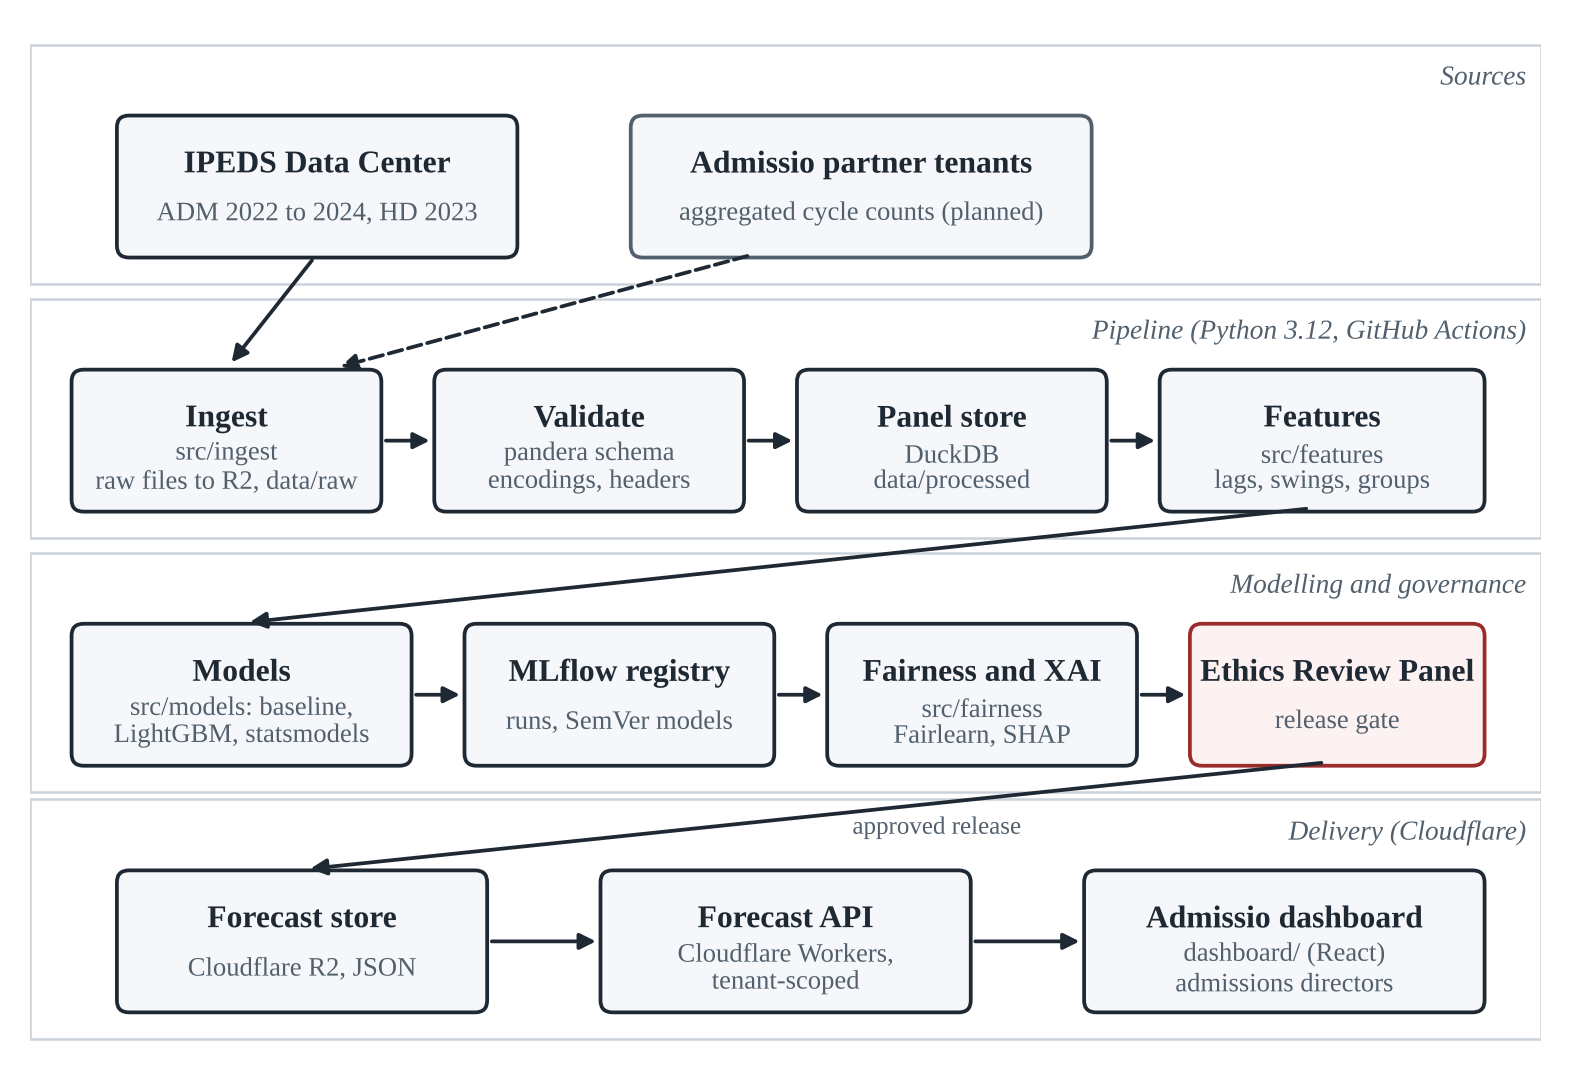
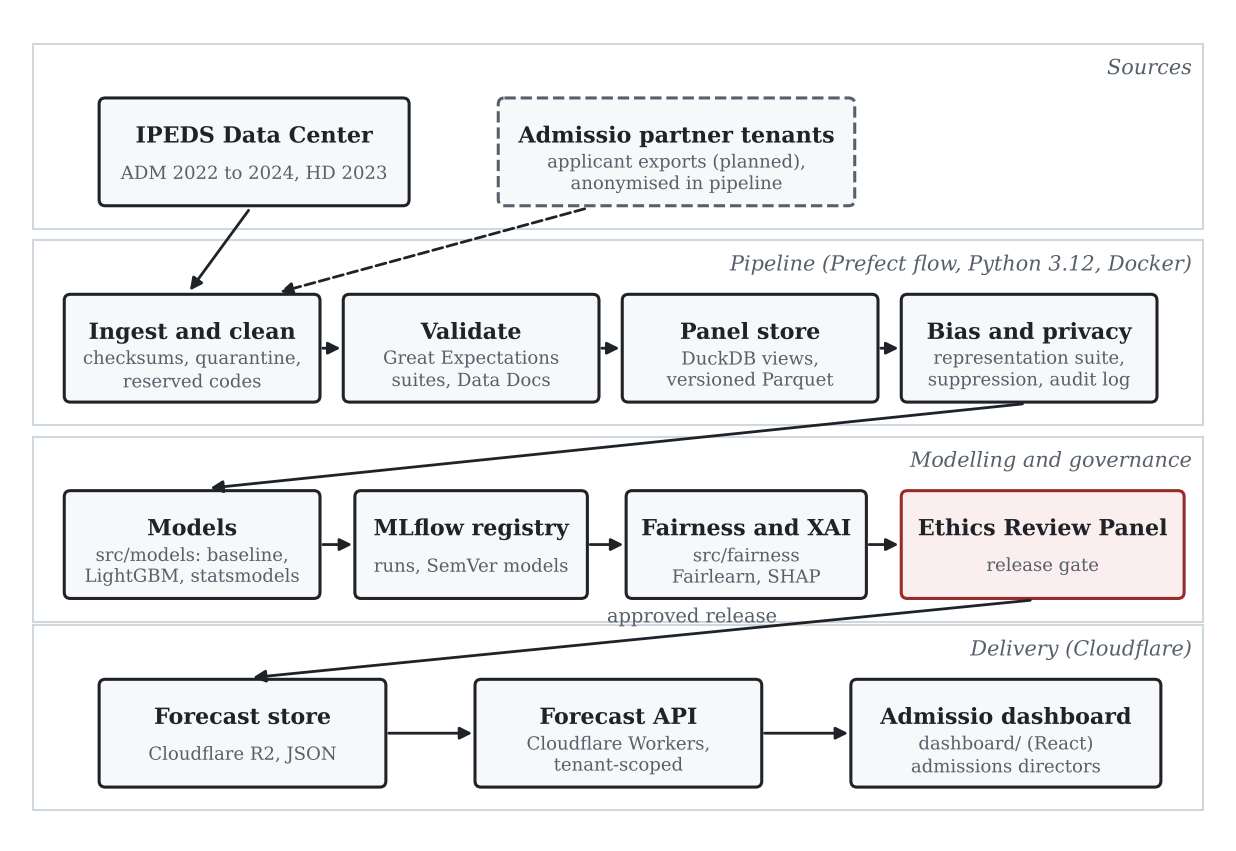
docs: add governance and anonymisation docs

Changed region(s): [[0.0, 0.0917, 0.9838, 0.9777], [0.0307, 0.0306, 0.9838, 0.0917]]

diff --git a/README.md b/README.md
@@ -7,12 +7,22 @@ Built on public IPEDS admissions data (2022 to 2024) while partner data accumula
 ## Repository layout
 
 ```
-admissio-yield-forecaster/
-├── data/          # raw and processed IPEDS files, tagged by release year
-├── docs/          # data card, model card, data dictionary, architecture, RAID log
-├── src/           # ingest/, features/, models/, fairness/
+msc-admissio-yield-forecaster/
+├── data/          # raw IPEDS files; interim and processed outputs are written at run time
+├── docs/          # data card, model card, data dictionary, governance, anonymisation plan, architecture, RAID log
+├── src/
+│   ├── ingest/      # landing with checksums, IPEDS readers
+│   ├── cleaning/    # deduplication, quarantine, reserved-code handling
+│   ├── features/    # yield panel and fairness groups
+│   ├── validation/  # Great Expectations suites and checkpoint runner
+│   ├── fairness/    # representation bias suite and group error audit
+│   ├── privacy/     # small-cell suppression, anonymisation, audit log
+│   ├── governance/  # access policy and retention rules
+│   ├── pipeline/    # Prefect flow, DuckDB warehouse, lineage
+│   └── models/      # forecasting models
 ├── dashboard/     # React front end served by Cloudflare Workers
-├── tests/         # unit and data validation tests
+├── tests/         # pytest suite for every pipeline module
+├── Dockerfile
 ├── CHANGELOG.md
 └── README.md
 ```
@@ -28,6 +38,37 @@ pip install -r requirements.txt
 pytest -q
 ```
 
+## Run the pipeline
+
+```bash
+python -m src.pipeline.flow
+```
+
+The Prefect flow lands the raw files, validates them with Great Expectations, cleans and integrates the panel, checks representation bias, suppresses small cells, anonymises the partner extract, loads DuckDB and applies retention. Outputs:
+
+| Output | Location |
+|---|---|
+| Warehouse with `analytics.yield_panel` and the `analytics.model_ready_panel` view | `data/processed/warehouse.duckdb` |
+| Versioned Parquet copies of every published table | `data/processed/<dataset>/` |
+| Great Expectations Data Docs | `reports/gx/uncommitted/data_docs/local_site/index.html` |
+| Lineage graph and run summary | `reports/lineage.json`, `reports/run_summary.json` |
+| Privacy audit log | `logs/audit/audit-<date>.jsonl` |
+
+Set `ADMISSIO_PSEUDONYM_KEY` to keep tenant pseudonyms stable between runs. To see the flow graph, start `prefect server start` and run the flow with `PREFECT_API_URL=http://127.0.0.1:4200/api`.
+
+## Run in Docker
+
+```bash
+docker build --tag admissio-pipeline .
+docker run --rm \
+  -v "$PWD/output/processed:/app/data/processed" \
+  -v "$PWD/output/reports:/app/reports" \
+  -v "$PWD/output/logs:/app/logs" \
+  admissio-pipeline
+```
+
+Run the tests inside the image with `docker run --rm admissio-pipeline python -m pytest -q`.
+
 ## Reproduce the baseline
 
 ```bash
@@ -41,7 +82,7 @@ This evaluates the carry-last-year's-yield-forward baseline on the 2024 cycle an
 | Sprint | Course module | Deliverable |
 |---|---|---|
 | 1 | Module 2 | Project plan, architecture, repository, data dictionary, RAID log |
-| 2 | Module 3 | Validated institution-year panel in DuckDB, data card |
+| 2 | Module 3 | Prefect pipeline, Great Expectations suites, bias detection, anonymisation, governance, audit log, Docker image |
 | 3 | Module 4 | Demand and yield models, offer planner, SHAP and fairness audit, model card |
 | 4 | Module 5 | Forecast API on Cloudflare Workers, React dashboard, stakeholder presentation |
 | 5 | Final Project | Deployed, monitored release |

diff --git a/docs/governance.md b/docs/governance.md
@@ -1,0 +1,43 @@
+# Data governance framework
+
+The framework covers who may touch each dataset, for what purpose, and for how long it is kept. The machine-readable policy is `src/governance/policy.yaml`. Every read, write, anonymisation and deletion in the pipeline is checked against that policy before it happens and recorded in the privacy audit log.
+
+## Roles
+
+| Role | Holder | Responsibility |
+|---|---|---|
+| `pipeline_service` | Automated service account | Runs the scheduled pipeline with the narrowest rights each step needs |
+| `data_engineer` | Pipeline maintainer | Maintains code, schemas and validation suites; cannot write analytical outputs by hand |
+| `analyst` | Model developer | Reads the validated panel and public outputs; never sees partner applicant records |
+| `ethics_review_panel` | Reviewers named in the Ethical AI Charter | Reads every internal output and the audit log; approves releases |
+| `partner_admin` | Admissions staff at one partner | Exports its own tenant's records and reads public outputs |
+
+## Dataset classification and access
+
+| Dataset | Classification | pipeline_service | data_engineer | analyst | ethics_review_panel | partner_admin |
+|---|---|---|---|---|---|---|
+| `ipeds_raw` | Public | read | read, write | read | read | none |
+| `quarantine` | Internal | write, delete | read | none | read | none |
+| `yield_panel` | Internal | read, write, delete | read | read | read | none |
+| `public_funnel` | Public | write, delete | read | read | read | read |
+| `representation_report` | Internal | write, delete | read | read | read | none |
+| `partner_extract` | Confidential | read, anonymise, delete | none | none | none | write |
+| `partner_aggregates` | Internal | write, delete | read | read | read | none |
+| `audit_log` | Restricted | append, delete | read | none | read | none |
+
+A request outside this matrix raises `AccessDenied` and is still written to the audit log with the outcome `denied`.
+
+## Retention
+
+| Dataset | Rule | Reason |
+|---|---|---|
+| `ipeds_raw` | Keep indefinitely | Public source files; needed to reproduce any past run |
+| `partner_extract` | Delete at the end of every run | Applicant-level personal data is needed only long enough to aggregate it |
+| `yield_panel`, `quarantine`, `public_funnel`, `partner_aggregates`, `representation_report` | Keep the latest two versions | One current release and one for rollback |
+| `audit_log` | Delete after 1,095 days (three years) | Long enough to answer a partner or regulator query about any training cycle |
+
+Retention runs as the last task of every pipeline run, and each deletion is itself logged.
+
+## Change control
+
+Changes to `policy.yaml` go through a pull request reviewed by the data engineer and approved by the Ethics Review Panel. Continuous integration runs the governance tests, so a change that grants analysts access to partner extracts fails the build.

diff --git a/docs/anonymization_plan.md b/docs/anonymization_plan.md
@@ -1,0 +1,25 @@
+# Data anonymisation plan
+
+## What counts as personal data here
+
+IPEDS files contain institution-level counts and no direct identifiers. Two risks remain. Small gender cells, such as one applicant of another gender at a small college, can point to a real person when combined with other published facts. Partner data from Admissio tenants is applicant-level and contains names, contact details, national identification numbers and dates of birth.
+
+## Controls
+
+| Data | Control | Implementation |
+|---|---|---|
+| IPEDS gender splits | Cells between 1 and 9 are suppressed. When only one cell in a row is suppressed, the next smallest positive cell is also suppressed so the hidden value cannot be recovered from the total. Rows with a total under 10 lose every split | `src/privacy/suppression.py` |
+| Partner direct identifiers | `full_name`, `email`, `phone_number`, `nin`, `date_of_birth` and `home_address` are dropped before any aggregation | `src/privacy/anonymize.py` |
+| Partner quasi-identifiers | `state_of_origin` is dropped | `src/privacy/anonymize.py` |
+| Tenant identity | Tenant IDs are replaced with a keyed HMAC-SHA256 pseudonym. The key comes from `ADMISSIO_PSEUDONYM_KEY` and is never stored with the data | `pseudonymise` |
+| Partner aggregates | Records are reduced to tenant-cycle-programme counts, and any count between 1 and 9 is suppressed | `aggregate_partner_extract` |
+| Leak check | The pipeline stops if any identifying column survives, and a Great Expectations suite requires the exact aggregate column set | `assert_no_personal_data`, `partner_aggregates` suite |
+| Raw extract | Deleted at the end of the run under the retention policy | `apply_retention` task |
+
+## Demonstration data
+
+No partner has shared applicant data yet. `src/privacy/partner_mock.py` generates a seeded synthetic export of 1,200 applicants across three fictional Nigerian tenants with Faker's `en_NG` locale. The mock exists only to exercise these controls and never enters model training.
+
+## Legal basis
+
+Partner processing follows the Nigeria Data Protection Act 2023 principles of purpose limitation, data minimisation and storage limitation, and the GDPR requirement for data protection by design and by default, because Admissio operates from Portugal. A data protection impact assessment precedes the first real partner extract.

diff --git a/docs/data_dictionary.md b/docs/data_dictionary.md
@@ -54,7 +54,20 @@ Preliminary schema for every source used by the Admissio Yield Forecaster. Raw I
 | `YIELD_LAG1` | Float | Previous year's yield for the same institution | Naive baseline and feature |
 | `APPLCN_CHANGE` | Float | Year-on-year proportional change in applicants | Feature |
 | `TEST_POLICY_CHANGED` | Boolean | `ADMCON7` differs from the previous year | Feature |
-| `SIZE_GROUP`, `CONTROL_GROUP`, `HBCU_GROUP` | Text | Labelled fairness groups | Fairness audit |
+| `SIZE_GROUP`, `CONTROL_GROUP`, `HBCU_GROUP`, `TRIBAL_GROUP` | Text | Labelled fairness groups | Fairness audit and bias detection |
+| `FUNNEL_COMPLETE` | Boolean | Applicants, admits and enrolled all reported, with admits above zero | Data-quality flag |
+| `FULL_YIELD_HISTORY` | Boolean | Usable yield in every year of the panel | Modelling eligibility |
+
+## Pipeline outputs (`data/processed/warehouse.duckdb`)
+
+| Table or view | Grain | Rows (2022 to 2024) | Purpose |
+|---|---|---|---|
+| `analytics.yield_panel` | Institution-year | 5,908 | Validated panel for analysis |
+| `analytics.model_ready_panel` | Institution-year | 5,556 | View of institutions with full yield history, the Module 4 training input |
+| `quarantine.admissions` | Institution-year | 12 | Rows with no directory record, held back with the reason |
+| `public.funnel_by_gender` | Institution-year | 5,908 | Gender funnel counts after small-cell suppression |
+| `reports.representation` | Group | 12 | Bias detection results |
+| `analytics.partner_aggregates` | Tenant-cycle-programme | Varies | Anonymised partner counts |
 
 ## Planned Admissio partner aggregates
 

diff --git a/CHANGELOG.md b/CHANGELOG.md
@@ -2,6 +2,23 @@
 
 All notable changes to this project are documented here. The format follows Keep a Changelog, and model releases follow Semantic Versioning.
 
+## [0.2.0] - 2026-10-16
+
+### Added
+
+- Prefect flow that runs ingestion, validation, cleaning, integration, bias detection, anonymisation, warehouse loading and retention end to end.
+- Great Expectations suites for raw admissions, the directory, the yield panel and partner aggregates, with Data Docs.
+- Representation bias suite built on Fairlearn.
+- Small-cell suppression, partner anonymisation and a synthetic partner export for testing.
+- Governance policy with role-based access and retention rules, and a JSON-lines privacy audit log.
+- DuckDB warehouse, versioned Parquet outputs and a lineage graph.
+- Dockerfile and a CI job that builds the image and runs the pipeline inside it.
+- Governance framework and anonymisation plan documents.
+
+### Changed
+
+- Data validation moved from Pandera to Great Expectations.
+
 ## [0.1.0] - 2026-10-07
 
 ### Added

diff --git a/docs/data_card.md b/docs/data_card.md
@@ -16,6 +16,8 @@ Integrated Postsecondary Education Data System (IPEDS), National Center for Educ
 - 89 records report applicants without usable admit or enrolment counts.
 - Gender splits exist for every funnel stage; race and ethnicity splits do not.
 - Two tribal colleges appear in 2023, too few for group-level evaluation.
+- Twelve admissions rows have no 2023 directory record and are quarantined.
+- Filtering to institutions with full yield history keeps 77.7% of private for-profit rows against 95.0% of private nonprofit rows, so for-profit institutions are under-represented in the modelling set.
 
 ## Intended use
 
